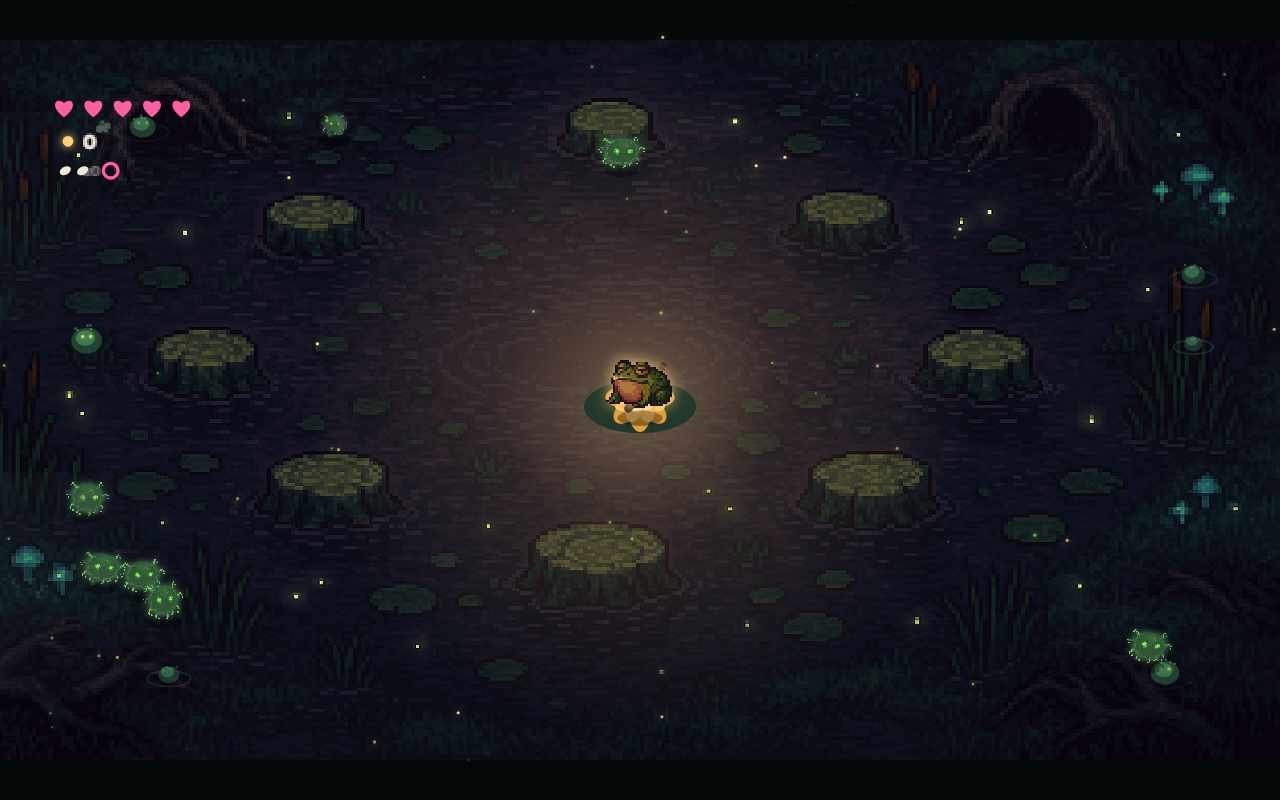
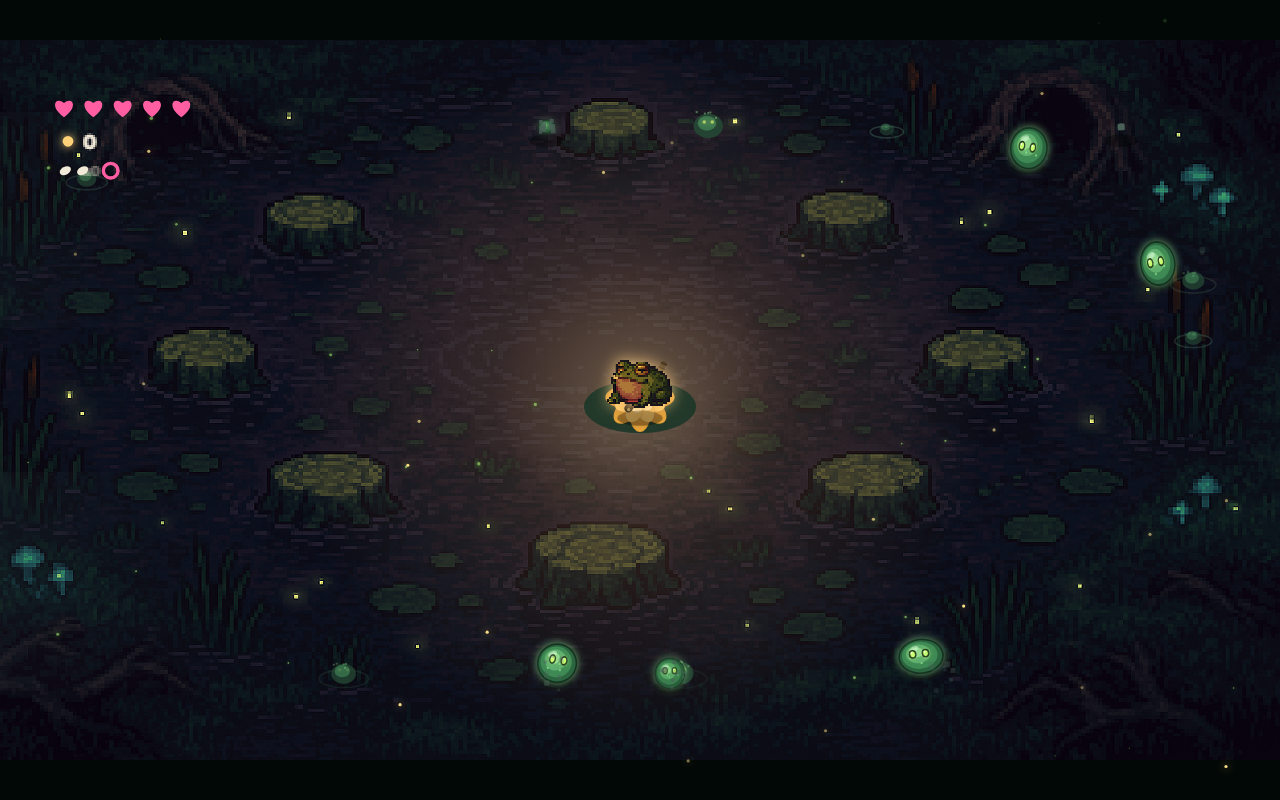
Procedural round cute-slime enemies (fixes the spiky-urchin blocker)
gpt-image-1 refuses to draw a round slime, so render them procedurally: a shaded
tonal-band jelly sphere (edge->core toward the light), glossy highlight, internal
spore flecks, big glowing eyes with white glints, soft biolum rim + grounding,
jelly wobble + waddle + hard hit-flatten. Per-kind variety: blobbit (round),
spikeblob (soft bumps, not sharp spikes), gloopa (heavy jowls + 3rd eye). Replaces
the off-model generated sprite the critics called clip-art. Typecheck + 23 tests
green, headless QA no errors.

diff --git a/src/render/render.ts b/src/render/render.ts
@@ -711,6 +711,90 @@ function drawAttackTell(ctx: CanvasRenderingContext2D, x: number, y: number, rad
   ctx.restore();
 }
 
+// per-kind slime palettes (muted swamp greens, tonal bands edge->core for a shaded sphere)
+const SLIME_PAL: Record<string, { outline: string; edge: string; mid: string; hi: string; core: string; fleck: string }> = {
+  blobbit: { outline: '#153320', edge: '#2c6640', mid: '#3f8a54', hi: '#5fae6f', core: '#8fd693', fleck: 'rgba(160,245,160,0.6)' },
+  spikeblob: { outline: '#0e2618', edge: '#244f38', mid: '#356a48', hi: '#4d8a5c', core: '#72b481', fleck: 'rgba(130,215,150,0.5)' },
+  gloopa: { outline: '#1b2a12', edge: '#465838', mid: '#647a46', hi: '#8a9d5c', core: '#bccb86', fleck: 'rgba(205,225,150,0.5)' },
+};
+
+/** A soft ROUND cute jelly slime: shaded tonal-band body, gloss, internal flecks, big glowing
+ *  eyes with glints, biolum rim, per-kind features. Drawn in the enemy's squash/waddle space. */
+function drawSlime(ctx: CanvasRenderingContext2D, e: Enemy, r: number, time: number, warm: boolean) {
+  const flash = e.flashT > 0;
+  const P = SLIME_PAL[e.kind] ?? SLIME_PAL.blobbit;
+  const wob = 1 + Math.sin(time * 4 + e.seed * 10) * 0.045;   // jelly wobble
+  const rx = r * 1.04 * wob, ry = r * 0.94 / wob;
+
+  // dark outline + soft bioluminescent rim (separates from dark water & foliage)
+  ctx.save();
+  ctx.shadowColor = 'rgba(150,240,150,0.7)'; ctx.shadowBlur = 8;
+  ctx.fillStyle = flash ? '#daffe0' : P.outline;
+  ctx.beginPath(); ctx.ellipse(0, 0, rx + 2.5, ry + 2.5, 0, 0, Math.PI * 2); ctx.fill();
+  ctx.restore();
+
+  if (flash) {
+    ctx.fillStyle = '#eafff0';
+    ctx.beginPath(); ctx.ellipse(0, 0, rx, ry, 0, 0, Math.PI * 2); ctx.fill();
+  } else {
+    // shaded sphere: concentric tonal bands offset toward the upper-left light
+    const bands: [number, number, number, string][] = [
+      [0, 0, 1.0, P.edge], [-0.06, -0.06, 0.84, P.mid], [-0.13, -0.15, 0.58, P.hi], [-0.2, -0.24, 0.3, P.core],
+    ];
+    for (const [ox, oy, s, c] of bands) {
+      ctx.fillStyle = c;
+      ctx.beginPath(); ctx.ellipse(ox * r, oy * r, rx * s, ry * s, 0, 0, Math.PI * 2); ctx.fill();
+    }
+    // internal spore flecks (seeded, static-ish)
+    ctx.fillStyle = P.fleck;
+    for (let i = 0; i < 4; i++) {
+      const a = e.seed * 30 + i * 1.7, rr = (0.25 + (i % 3) * 0.22) * r;
+      ctx.beginPath(); ctx.arc(Math.cos(a) * rr * 0.8, Math.sin(a) * rr * 0.6 + r * 0.1, r * 0.06, 0, Math.PI * 2); ctx.fill();
+    }
+    // glossy highlight, top-left
+    ctx.fillStyle = 'rgba(225,255,225,0.5)';
+    ctx.beginPath(); ctx.ellipse(-r * 0.34, -r * 0.42, r * 0.26, r * 0.15, -0.5, 0, Math.PI * 2); ctx.fill();
+  }
+
+  // per-kind features (kept ROUND — soft bumps, not sharp spikes)
+  if (!flash && e.kind === 'spikeblob') {
+    ctx.fillStyle = P.edge;
+    for (let i = -1; i <= 1; i++) { ctx.beginPath(); ctx.arc(i * r * 0.44, -ry * 0.78, r * 0.16, 0, Math.PI * 2); ctx.fill(); }
+    ctx.fillStyle = P.mid;
+    for (let i = -1; i <= 1; i++) { ctx.beginPath(); ctx.arc(i * r * 0.44 - r * 0.04, -ry * 0.82, r * 0.09, 0, Math.PI * 2); ctx.fill(); }
+  }
+  if (!flash && e.kind === 'gloopa') {   // droopy heavy jowls
+    ctx.fillStyle = P.mid;
+    ctx.beginPath(); ctx.ellipse(-rx * 0.7, ry * 0.35, r * 0.26, r * 0.2, 0, 0, Math.PI * 2);
+    ctx.ellipse(rx * 0.7, ry * 0.35, r * 0.26, r * 0.2, 0, 0, Math.PI * 2); ctx.fill();
+  }
+
+  // big cute glowing eyes with glint (track facing)
+  const look = e.facing;
+  const lx = Math.cos(look) * r * 0.12, ly = Math.sin(look) * r * 0.08;
+  const es = (e.kind === 'gloopa' ? 0.22 : e.kind === 'spikeblob' ? 0.19 : 0.18) * r;
+  const iris = warm ? '#ffb060' : '#c9ff72';
+  for (const side of [-1, 1]) {
+    const ox = side * r * 0.33 + lx, oy = -r * 0.1 + ly;
+    ctx.fillStyle = '#0c1f13';
+    ctx.beginPath(); ctx.ellipse(ox, oy, es * 1.1, es * 1.35, 0, 0, Math.PI * 2); ctx.fill();
+    ctx.fillStyle = iris; ctx.shadowColor = iris; ctx.shadowBlur = 6;
+    ctx.beginPath(); ctx.ellipse(ox, oy, es * 0.66, es * 0.9, 0, 0, Math.PI * 2); ctx.fill();
+    ctx.shadowBlur = 0;
+    ctx.fillStyle = '#ffffff';
+    ctx.beginPath(); ctx.arc(ox - es * 0.28, oy - es * 0.45, es * 0.24, 0, Math.PI * 2); ctx.fill();
+  }
+  // gloopa third eye (grotesque bruiser tell)
+  if (e.kind === 'gloopa') {
+    ctx.fillStyle = '#0c1f13';
+    ctx.beginPath(); ctx.ellipse(lx, -r * 0.5 + ly, es * 0.7, es * 0.85, 0, 0, Math.PI * 2); ctx.fill();
+    ctx.fillStyle = iris; ctx.shadowColor = iris; ctx.shadowBlur = 5;
+    ctx.beginPath(); ctx.arc(lx, -r * 0.5 + ly, es * 0.42, 0, Math.PI * 2); ctx.fill(); ctx.shadowBlur = 0;
+  }
+
+  if (flash) { ctx.globalAlpha = 0.55; ctx.fillStyle = '#ffffff'; ctx.beginPath(); ctx.ellipse(0, 0, rx, ry, 0, 0, Math.PI * 2); ctx.fill(); ctx.globalAlpha = 1; }
+}
+
 // ---------- enemies ----------
 function drawEnemy(ctx: CanvasRenderingContext2D, e: Enemy, alpha: number, time: number) {
   const data = ENEMIES[e.kind];
@@ -745,104 +829,19 @@ function drawEnemy(ctx: CanvasRenderingContext2D, e: Enemy, alpha: number, time:
   }
   ctx.scale(sx2, sy2);
 
-  // real sludgeling sprite (all sludge-family kinds share it for the slice), then bail to the
-  // world-space windup telegraph. Graybox blob below is the fallback until the image loads.
-  const sImg = (e.flashT > 0 && img('blobbitHit')) ? img('blobbitHit') : img('sludgeling');
-  if (sImg) {
-    // bouncy waddle: rock + hop + per-step squish while closing on the player (critics: too stiff)
-    const moving = e.state === 'seek' && Math.hypot(e.vx, e.vy) > 10;
-    const wadT = time * 9 + e.seed * 20;
-    if (moving) {
-      const wadHop = Math.abs(Math.sin(wadT)) * r * 0.3;
-      ctx.rotate(Math.sin(wadT) * 0.2);            // rock
-      ctx.translate(0, -wadHop);                    // hop
-      ctx.scale(1 + Math.cos(wadT * 2) * 0.09, 1 - Math.cos(wadT * 2) * 0.09); // squish per step
-    }
-    if (e.flashT > 0) ctx.scale(1.28, 0.72);        // hard flatten recoil on hit (juice)
-    const h = r * 3.15;                             // plumper/bigger (critics: read as threats)
-    const dw = h * (sImg.width / sImg.height);
-    ctx.imageSmoothingEnabled = false;
-    // soft bioluminescent rim so the slime separates from the dark water + green foliage
-    ctx.shadowColor = 'rgba(150,240,150,0.75)'; ctx.shadowBlur = 7;
-    ctx.drawImage(sImg, -dw / 2, -h * 0.6, dw, h);
-    ctx.shadowBlur = 0;
-    ctx.drawImage(sImg, -dw / 2, -h * 0.6, dw, h);
-    if (e.flashT > 0) {
-      ctx.globalAlpha = 0.9; ctx.globalCompositeOperation = 'lighter';
-      ctx.drawImage(sImg, -dw / 2, -h * 0.6, dw, h);
-      ctx.globalCompositeOperation = 'source-over'; ctx.globalAlpha = 1;
-    }
-    ctx.restore();
-    if (e.state === 'windup') drawAttackTell(ctx, e.atkX, e.atkY, data.atkRadius, e.stateF / data.atkWindup);
-    return;
-  }
-
-  // body color: white flash > armor flash > windup warm > base
+  // PROCEDURAL cute-slime (Ian + critics want a soft ROUND squishy blob; gpt-image-1 only makes
+  // spiky urchins). Bouncy waddle + hard hit-flatten, then a richly-shaded round jelly body.
   const warm = e.state === 'windup' && (e.stateF & 4) !== 0;
-  let body = e.kind === 'gloopa' ? C.sludgeDark : C.sludge;
-  if (warm) body = '#8a3050';
-  if (e.armorFlashT > 0) body = '#8b9490';
-  if (e.flashT > 0) body = '#ffffff';
-  ctx.fillStyle = body;
-
-  // blob silhouette (round-bottomed)
-  ctx.beginPath();
-  ctx.ellipse(0, 0, r, r * 0.85, 0, 0, Math.PI * 2);
-  ctx.fill();
-  // drips
-  ctx.beginPath();
-  ctx.ellipse(-r * 0.4, r * 0.55, r * 0.28, r * 0.2, 0, 0, Math.PI * 2);
-  ctx.ellipse(r * 0.45, r * 0.5, r * 0.22, r * 0.16, 0, 0, Math.PI * 2);
-  ctx.fill();
-
-  // spikeblob spikes
-  if (e.kind === 'spikeblob') {
-    const out = e.spikesOut ? 1 : 0.25;
-    // inflate tell right before toggle
-    const period = e.spikesOut ? 1.2 : 1.8;
-    const tell = e.spikeT / period > 0.8 ? 1.12 : 1;
-    ctx.fillStyle = e.flashT > 0 ? '#fff' : e.spikesOut ? '#5d7a6a' : '#3a4f43';
-    for (let i = 0; i < 8; i++) {
-      const a = (i / 8) * Math.PI * 2 + 0.3;
-      const bx = Math.cos(a) * r * 0.9 * tell, by = Math.sin(a) * r * 0.75 * tell;
-      const tx = Math.cos(a) * (r * 0.9 + 14 * out) * tell, ty = Math.sin(a) * (r * 0.75 + 14 * out) * tell;
-      ctx.beginPath();
-      ctx.moveTo(bx + Math.sin(a) * 5, by - Math.cos(a) * 5);
-      ctx.lineTo(tx, ty);
-      ctx.lineTo(bx - Math.sin(a) * 5, by + Math.cos(a) * 5);
-      ctx.closePath();
-      ctx.fill();
-    }
+  const moving = e.state === 'seek' && Math.hypot(e.vx, e.vy) > 10;
+  const wadT = time * 9 + e.seed * 20;
+  if (moving) {
+    const wadHop = Math.abs(Math.sin(wadT)) * r * 0.32;
+    ctx.rotate(Math.sin(wadT) * 0.18);
+    ctx.translate(0, -wadHop);
+    ctx.scale(1 + Math.cos(wadT * 2) * 0.1, 1 - Math.cos(wadT * 2) * 0.1);
   }
-
-  // gloopa crown of bones (bruiser tell)
-  if (e.kind === 'gloopa') {
-    ctx.fillStyle = e.flashT > 0 ? '#fff' : '#c9bfa8';
-    for (let i = -1; i <= 1; i++) {
-      ctx.beginPath();
-      ctx.moveTo(i * 14 - 5, -r * 0.7);
-      ctx.lineTo(i * 14, -r * 0.7 - 12);
-      ctx.lineTo(i * 14 + 5, -r * 0.7);
-      ctx.closePath();
-      ctx.fill();
-    }
-  }
-
-  // glowing eyes (cool/dark body, eye glow = the readable bit)
-  const eyeC = warm ? C.pink : C.eye;
-  ctx.shadowColor = eyeC; ctx.shadowBlur = 7;
-  ctx.fillStyle = eyeC;
-  const look = e.facing;
-  const lx = Math.cos(look) * 4, ly = Math.sin(look) * 3;
-  ctx.beginPath();
-  ctx.arc(-r * 0.3 + lx, -r * 0.25 + ly, e.kind === 'gloopa' ? 6 : 4.5, 0, Math.PI * 2);
-  ctx.arc(r * 0.3 + lx, -r * 0.25 + ly, e.kind === 'gloopa' ? 6 : 4.5, 0, Math.PI * 2);
-  ctx.fill();
-  // the grotesque touch: third eye on gloopa
-  if (e.kind === 'gloopa') {
-    ctx.beginPath(); ctx.arc(lx, -r * 0.55 + ly, 4, 0, Math.PI * 2); ctx.fill();
-  }
-  ctx.shadowBlur = 0;
+  if (e.flashT > 0) ctx.scale(1.3, 0.72);           // hard flatten recoil on hit (juice)
+  drawSlime(ctx, e, r, time, warm);
 
   ctx.restore();
 
